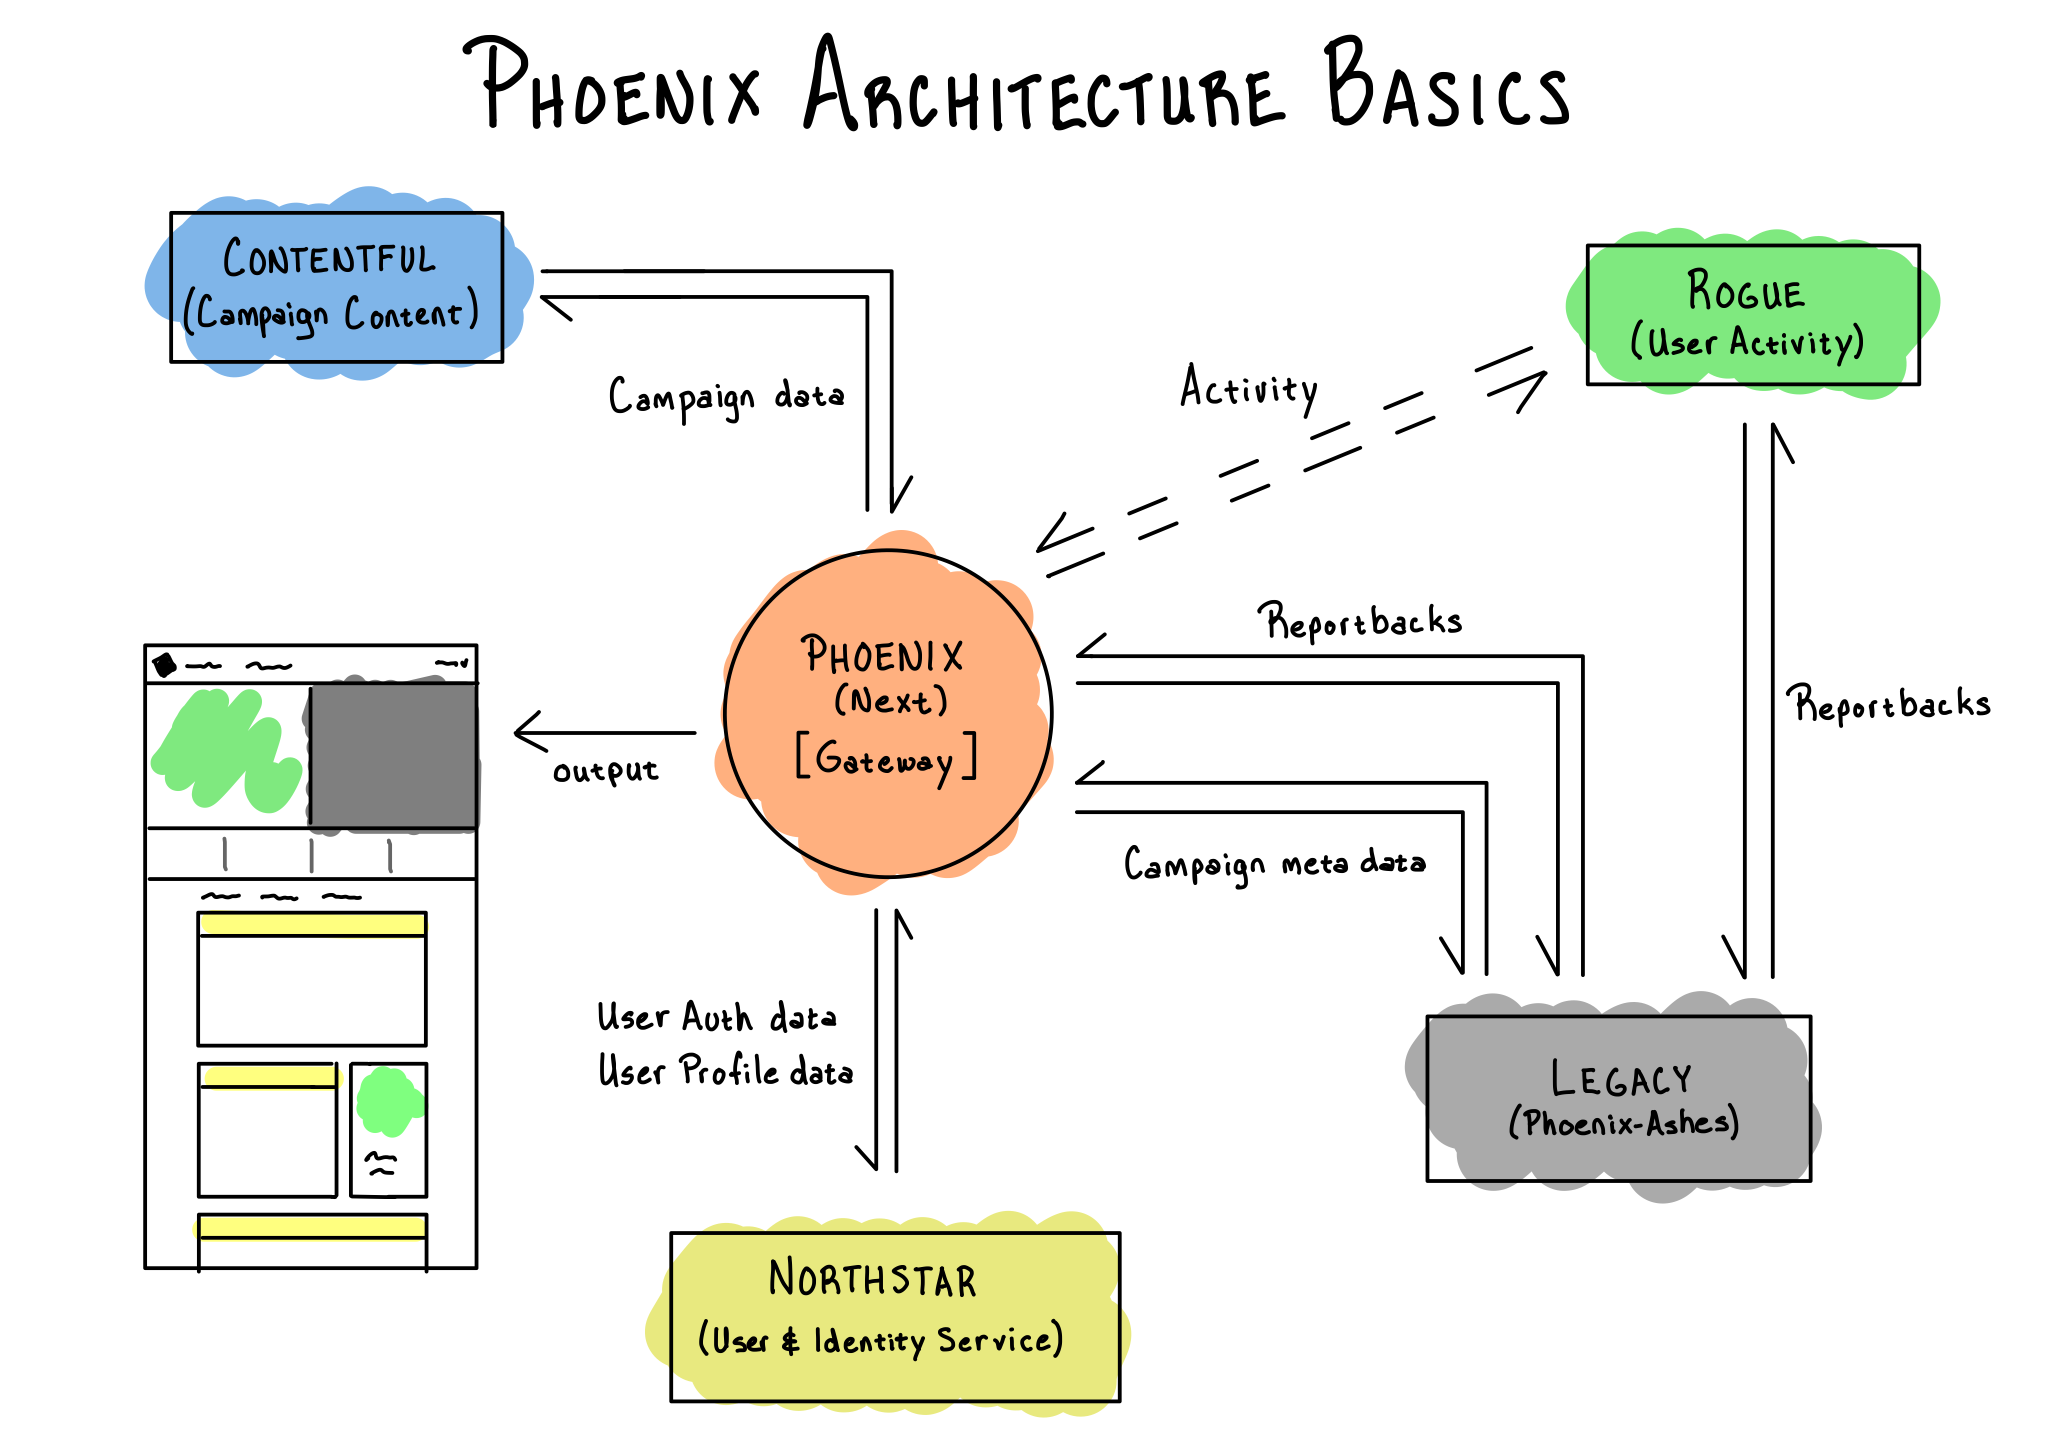
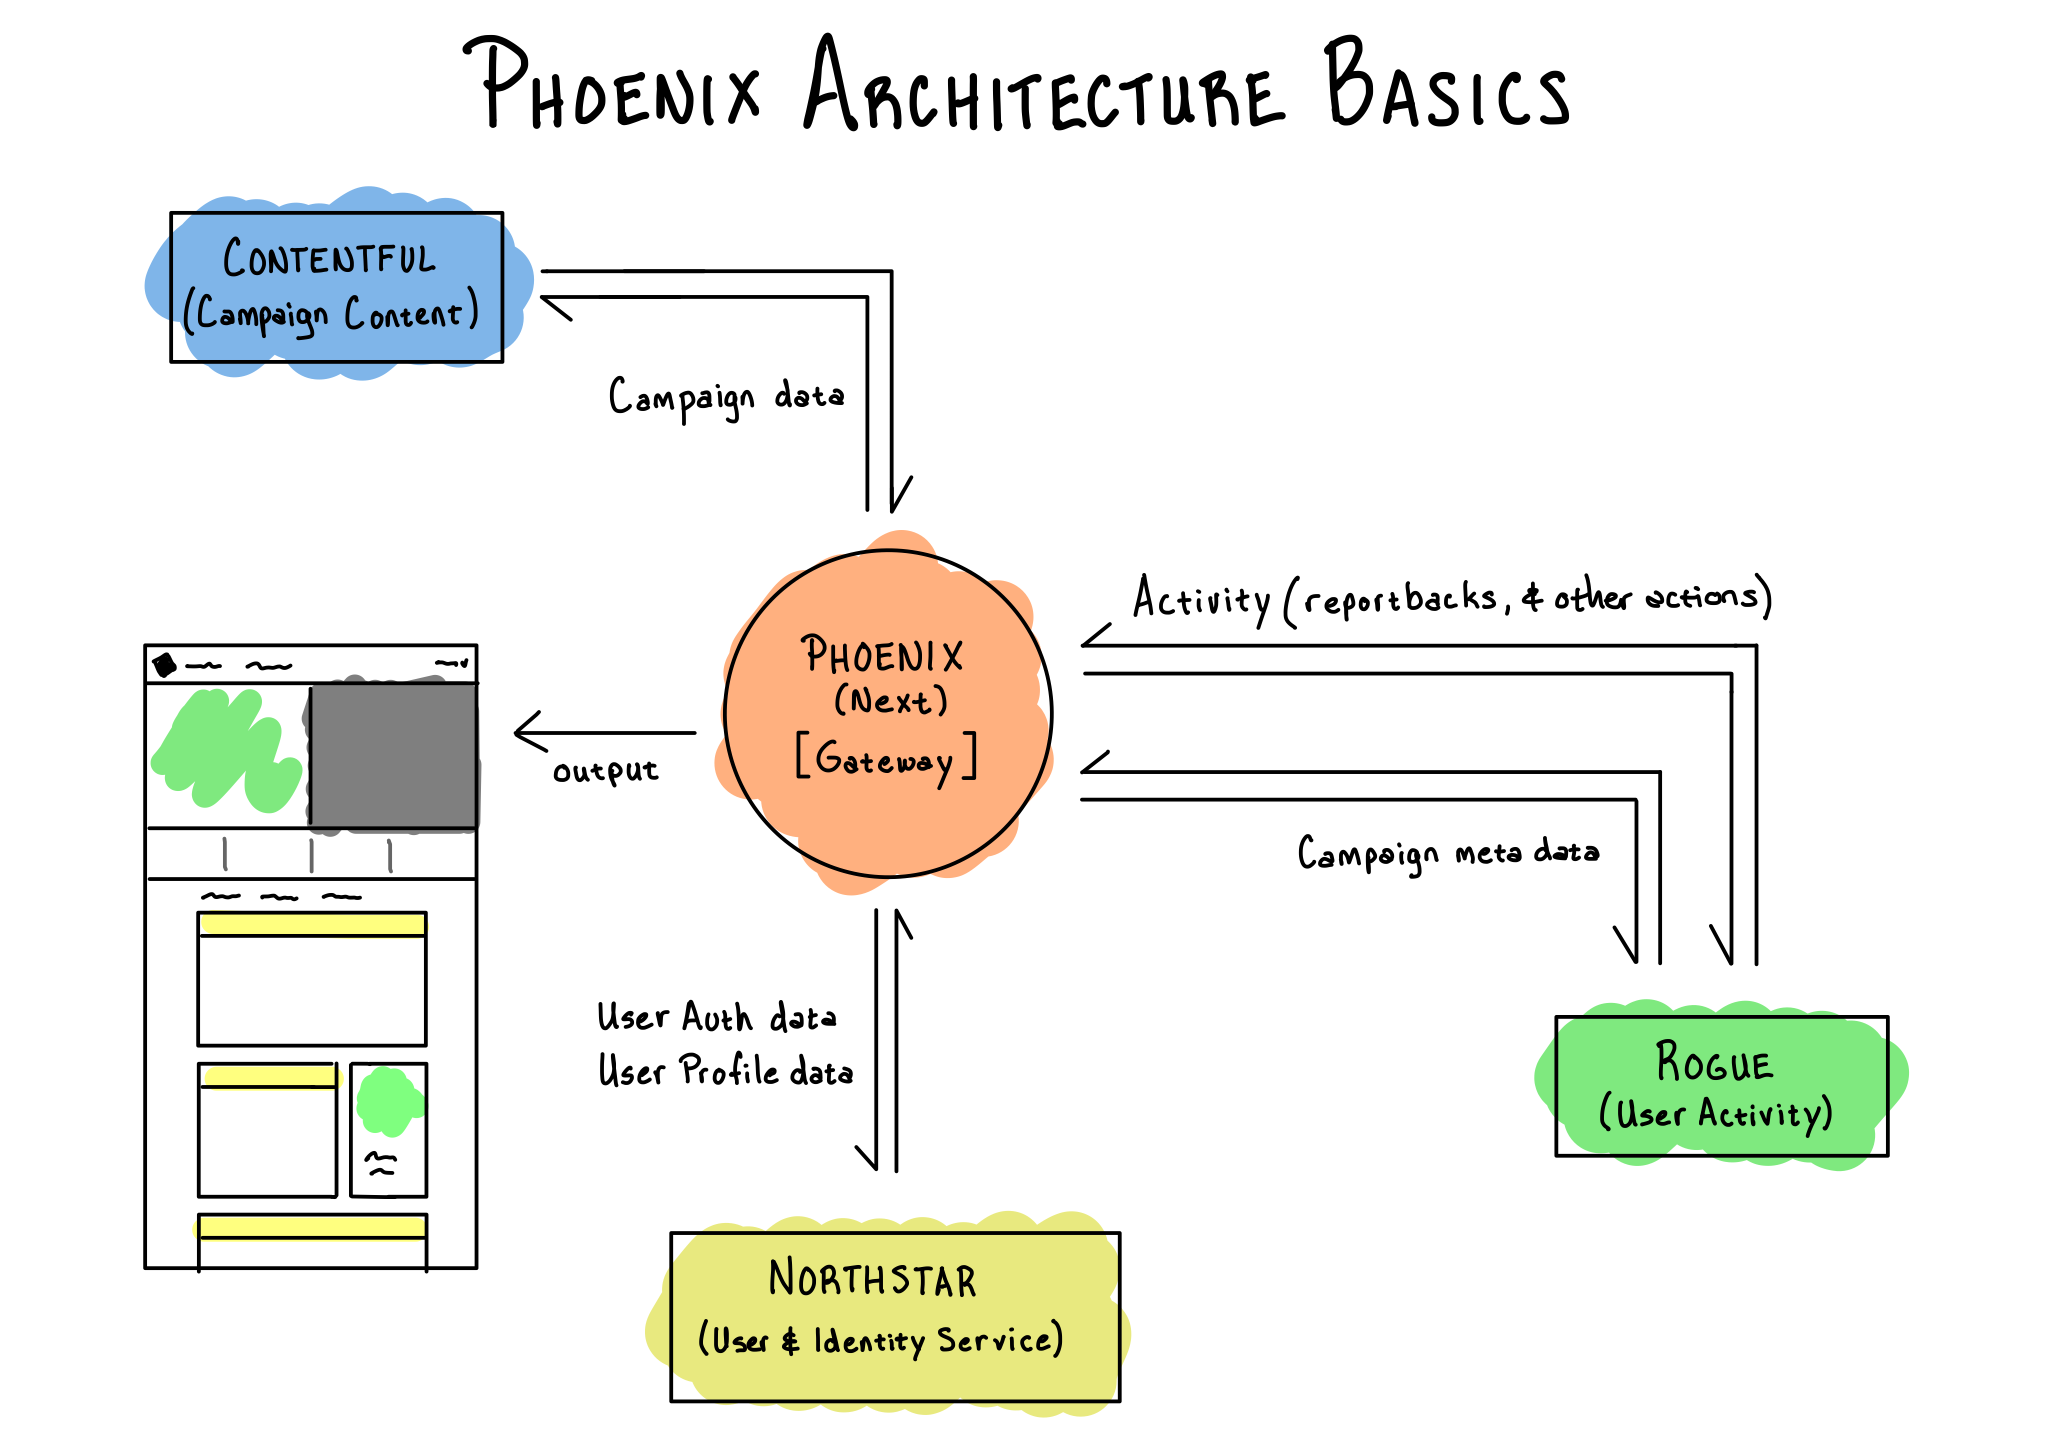
Documentation updates (#1220)
* Updating Development -> Installation docs.

* Removing the term '(next)' from the docs.

* Updaing Development - Developer Onboarding documentation

* Updating Architecture diagram to remove Ashes.

* Updates based on recommendations.

* Updating Heroku file.

* Fixing typo.

diff --git a/docs/development/developer-onboarding.md b/docs/development/developer-onboarding.md
@@ -1,22 +1,22 @@
 # Developer Onboarding
 
-## Install and Set Up Phoenix \(next\)
+## Install and Set Up Phoenix
 
-You can follow the [instructions](installation.md) to install and set up Phoenix \(next\) in your local development environment.
+You can follow the [installation instructions](installation.md) to install and set up Phoenix in your local development environment.
 
-However, before running `php artisan phoenix:setup`, you are going to need a few permissions so that you can set the correct application keys and secrets for proper access.
+However, before running `php artisan phoenix:setup`, you are going to need a few permissions so that you can set the correct application keys and secret keys for proper access.
 
 ### Northstar
 
-For the most part, you can use the staging Northstar URL for your development environment: `https://northstar-thor.dosomething.org`
+For your development environment you should use the Dev Northstar URL: `https://identity-dev.dosomething.org`
 
-To gain access to an ID and SECRET, you will need to have the proper permissions set on your DoSomething account. Let a developer on the team know if you are unable to access [Aurora \(staging\)](https://aurora-thor.dosomething.org/clients).
+To gain access to a _Client ID_ and _Client Secret_, you will need to have the proper permissions set on your DoSomething account. Let a developer on the team know if you are unable to access [Aurora \(dev\)](https://admin-dev.dosomething.org/clients/dev-oauth) to obtain the two values.
 
 ### Contentful
 
-Be sure to setup your [Contentful account](https://www.contentful.com/sign-up/) and request access to the project _Phoenix_ project space, so that you can set the proper _Contentful Space ID_ and _Contentful API Key_ in your setup.
+Be sure to setup your [Contentful account](https://www.contentful.com/sign-up/) and request access to the _Phoenix_ project space, so that you can set the proper _Contentful Space ID_ and _Contentful API Key_ in your setup.
 
-Once you gain access to Contentful and the _Phoenix_ space, you can find the values you need in the **Space settings** tab and click on **API Keys** in Contentful. Then select the **Phoenix Next - local development** token.
+Once you gain access to Contentful and the _Phoenix_ space, you can find the values you need in the **Settings** tab and click on **Space Settings: API keys** in Contentful. Then click the **Phoenix [Development]** entry to obtain the _Space ID_ and _Content Preview API_ key access token.
 
 ### .ENV \(noun: /Dot EE EN VEE/\)
 
@@ -26,7 +26,7 @@ If running the Phoenix setup from scratch, a copy of this `.env.example` file wi
 
 ### Preview API
 
-For you local development environment, it may be helpful to use the **Content Preview API - access token** instead of the **Content Delivery API - access token**, so you can access unpublished, or "draft mode" work from Contentful. If you choose to do so, be sure to set the `CONTENTFUL_USE_PREVIEW_API` to `true` in your `.env` file.
+For you local development environment, it may be helpful to use the **Content Preview API - access token** instead of the **Content Delivery API - access token**, so you can access unpublished, or "draft mode" work from Contentful. If you choose to do so, be sure to set the `CONTENTFUL_USE_PREVIEW_API` to `true` in your `.env` file, so that the Contentful configuration knows to access preview content.
 
 ### Contentful Caching
 
@@ -36,18 +36,19 @@ By default, the application is set up to cache Campaigns records fetched from Co
 
 There are a couple of other applications and sites that you will want access to for development:
 
-* The [Dosomething Team](https://dashboard.heroku.com/teams/dosomething/overview) on [Heroku](https://www.heroku.com/) \(To access Preview Apps, and more\).
-* The [Dosomething Organization](https://app.wercker.com/dosomething) on [Wercker](https://app.wercker.com) \(To access and re-trigger auto builds for _Pull Requests_\).
+- The [Dosomething Team](https://dashboard.heroku.com/teams/dosomething/overview) on [Heroku](https://www.heroku.com/) \(To access Preview Apps, Phoenix deployments and more\).
+- The [Dosomething Organization](https://app.wercker.com/dosomething) on [Wercker](https://app.wercker.com) \(To access and re-trigger auto builds for _Pull Requests_\).
 
 ## Tips and Tidbits 🍩
 
-### Preview Environment
+### Dev & QA Environments
 
-Once a _Pull Request_ is merged, a deploy to our staging environment is automatically triggered.
+Once a _Pull Request_ is merged, a deploy to our _Development_ and _QA (staging)_ environment is automatically triggered.
 
-The staging environment can be accessed at [https://phoenix-preview.dosomething.org](https://phoenix-preview.dosomething.org).
+The Development environment can be accessed at [https://www-dev.dosomething.org](https://www-dev.dosomething.org).
+
+The QA environment can be accessed at [https://qa.dosomething.org](https://qa.dosomething.org).
 
 ### Review Apps
 
 When a Pull Request is submitted, a temporary deploy is made from the feature branch. Read more about this in the [Heroku documentation for Review Apps](https://github.com/DoSomething/phoenix-next/wiki/Review-apps).
-

diff --git a/docs/development/deployments/heroku.md b/docs/development/deployments/heroku.md
@@ -1,22 +1,21 @@
 # Heroku
 
-Heroku is a platform that lets developers focus on building applications instead of orchestrating infastructure. We currently use Heroku for Review Applications, temporary apps that deploy for every pull request, and we're moving towards hosting Phoenix \(next\) entirely on Heroku.
+Heroku is a platform that lets developers focus on building applications instead of orchestrating infastructure. We currently use Heroku for Review Applications, temporary apps that deploy for every pull request, and we're moving towards hosting Phoenix entirely on Heroku.
 
 ## Heroku Resources
 
 Pages useful for understanding and debugging Heroku.
 
-* [12 Factor](https://12factor.net/)
-* [Heroku Dev Center](https://devcenter.heroku.com/)
-* [Heroku Laravel Buildpack](https://devcenter.heroku.com/articles/getting-started-with-laravel)
-* [Heroku Javascript Buildpack](https://devcenter.heroku.com/articles/deploying-nodejs)
-* [Heroku Review Apps Documentation](https://devcenter.heroku.com/articles/deploying-nodejs)
+- [12 Factor](https://12factor.net/)
+- [Heroku Dev Center](https://devcenter.heroku.com/)
+- [Heroku Laravel Buildpack](https://devcenter.heroku.com/articles/getting-started-with-laravel)
+- [Heroku Javascript Buildpack](https://devcenter.heroku.com/articles/deploying-nodejs)
+- [Heroku Review Apps Documentation](https://devcenter.heroku.com/articles/deploying-nodejs)
 
 ## Laravel + Heroku notes
 
-Review apps are spun up everytime a pull request is made by using the [app.json](https://github.com/DoSomething/phoenix-next/blob/dev/app.json) as an instruction set for how to configure the dyno. Any secret environment variables that it pulls in come from the staging app within the Phoenix \(next\) Heroku pipeline.
+Review apps are spun up everytime a pull request is made by using the [app.json](https://github.com/DoSomething/phoenix-next/blob/dev/app.json) as an instruction set for how to configure the dyno. Any secret environment variables that it pulls in come from the QA (staging) app within the Phoenix Heroku pipeline.
 
-Phoenix \(next\) Heroku apps also execute a [post-deploy script](https://github.com/DoSomething/phoenix-next/blob/dev/bootstrap/setup.sh) that we created, which handles running tasks such database migrations.
+Heroku apps contain a _Procfile_ that declares what command should be executed to start an app. Phoenix's Procfile declares that a single `web` process type should be run; this process will be attached to the HTTP rounting stack of Heroku and receive web traffic when deployed. The command that is executed to start the app will run a composer command that helps with Phoenix setup, start up the Nginx server and serve the app from the `public/` directory. It will also run the initial database migrations for the app.
 
-In order to make the MySql connection work in Heroku, we had to make some changes to how Laravel connects to MySql. [Here](https://github.com/DoSomething/phoenix-next/blob/dev/config/database.php#L3) is the code for how that works. We also had to change the [Trusted Proxy](https://github.com/DoSomething/phoenix-next/blob/dev/config/trustedproxy.php) in order for the app to work smoothly with Heroku's load balancer.
-
+Something to note is that we had to change the [Trusted Proxy](https://github.com/DoSomething/phoenix-next/blob/dev/config/trustedproxy.php) settings in order for the app to work smoothly with Heroku's load balancer.

diff --git a/docs/development/installation.md b/docs/development/installation.md
@@ -1,8 +1,14 @@
 # Installation
 
-Fork and clone this repository to your computer, and then [add to your local Homestead](https://github.com/DoSomething/communal-docs/tree/master/Homestead) installation. Homestead provides a pre-packaged development environment to help get you up and running quickly!
+Fork and clone the [Phoenix repository](https://github.com/DoSomething/phoenix-next) to your computer, and then [add it to your local Homestead](https://github.com/DoSomething/communal-docs/tree/master/Homestead) installation. Homestead provides a pre-packaged development environment to help get you up and running quickly!
 
-We use [Contentful](https://www.contentful.com/) as our content management platform. Please setup an account and request access to the _space_ used for this project.
+We use [Contentful](https://www.contentful.com/) as our content management platform.
+
+{% hint style="warning" %}
+Please request access to Contentful and setup an account to be able to access the _space_ used for this project.
+{% endhint %}
+
+Once you have access to Contentful, `ssh` into the Homestead Vagrant box, `cd` into the Phoenix repository location and run:
 
 ```bash
 # Install dependencies:
@@ -19,7 +25,7 @@ $ npm start
 
 ### PHP
 
-You may run PHP tests locally using [PHPUnit](https://github.com/sebastianbergmann/phpunit), by running:
+To run PHP tests locally, `ssh` into the Homestead Vagrant box, `cd` into the Phoenix repository location and use [PHPUnit](https://github.com/sebastianbergmann/phpunit), by running:
 
 ```bash
 $ vendor/bin/phpunit
@@ -39,10 +45,9 @@ $ npm test
 
 We use [Prettier](https://prettier.io/) to format our code & [ESLint](http://eslint.org/) to catch common mistakes. They run in the following scenarios:
 
-* When using the `npm start` command, your files will be "watched" for changes, and when a change is detected, the JS code will be linted and only compiled if it passes.
-* Code will be automatically formatted when committing changes. You can also install an [editor plugin](https://prettier.io/docs/en/editors.html) to reformat code as you write it, or manually format the project with `npm run format`.
-* You can manually lint code by running `npm run lint -s`. The `-s` option lets you suppress the verbose NPM warnings that follows when there are linting errors.
-* Code linting also runs via [Wercker](http://www.wercker.com/), our continuous integration service, when a new pull request is made for the repository.
+- When using the `npm start` command, your files will be "watched" for changes, and when a change is detected, the JS code will be linted and only compiled if it passes.
+- Code will be automatically formatted when committing changes. You can also install an [editor plugin](https://prettier.io/docs/en/editors.html) to reformat code as you write it, or manually format the project with `npm run format`.
+- You can manually lint code by running `npm run lint -s`. The `-s` option lets you suppress the verbose NPM warnings that follows when there are linting errors.
+- Code linting also runs via [Wercker](http://www.wercker.com/), our continuous integration service, when a new pull request is made for the repository.
 
 We use [StyleCI](https://styleci.io/repos/75642790) service to lint our PHP code when a new pull request is made for the respository.
-

diff --git a/docs/content-publishing/environment-details-and-behaviors.md b/docs/content-publishing/environment-details-and-behaviors.md
@@ -12,5 +12,5 @@ The only things that will show up on production are those that have been _Publis
 
 On Preview \(aka: Thor\), anything that is in _Draft_ mode will show on the page. This allows you to queue up content changes without actually changing a live campaign, as well as identify if new content is an issue before publishing to Production.
 
-Phoenix \(next\) has an administration console that allows you to see all of the views a user would see through the campaign. Note that if you are clicking out to a modal, the behavior here will be incorrect as an administrator \(it re-triggers the "mock signup/unsignup button"\). This is not indicative of how it will work for a user.
+Phoenix has an administration console that allows you to see all of the views a user would see through the campaign. Note that if you are clicking out to a modal, the behavior here will be incorrect as an administrator \(it re-triggers the "mock signup/unsignup button"\). This is not indicative of how it will work for a user.
 

diff --git a/docs/development/features/README.md b/docs/development/features/README.md
@@ -1,14 +1,13 @@
 # Features
 
-We've got loads of cool features we use for development within Phoenix \(next\). Here's a list of some nifty things you mind find useful for you Phoenix Development Arsenal™.
+We've got loads of cool features we use for development within Phoenix. Here's a list of some nifty things you mind find useful for you Phoenix Development Arsenal™.
 
 ## Backend Components & Features
 
-* [Routing](routing.md)
-* [Sixpack A/B Testing](sixpack-a-b-testing.md)
+- [Routing](routing.md)
+- [Sixpack A/B Testing](sixpack-a-b-testing.md)
 
 ## Frontend Components
 
-* [Traffic Distribution](traffic-distribution.md)
-* [Modal Launcher](modal-launcher.md)
-
+- [Traffic Distribution](traffic-distribution.md)
+- [Modal Launcher](modal-launcher.md)

diff --git a/docs/content-publishing/initial-campaign-publication/README.md b/docs/content-publishing/initial-campaign-publication/README.md
@@ -2,6 +2,5 @@
 
 Currently, while we still support the legacy DoSomething.org platform, to publish a campaign you need to follow instructions on both the old **Ashes** platform and the new **Phoenix** platform.
 
-* [Ashes Publication](ashes-publication.md)
-* [Phoenix \(next\) Publication](next-publication.md)
-
+- [Ashes Publication](ashes-publication.md)
+- [Phoenix \(next\) Publication](next-publication.md)

diff --git a/docs/SUMMARY.md b/docs/SUMMARY.md
@@ -5,8 +5,8 @@
 ## Development
 
 - [Overview](development/overview.md)
-- [Installation](development/installation.md)
 - [Developer Onboarding](development/developer-onboarding.md)
+- [Installation](development/installation.md)
 - [Architecture](development/architecture.md)
 - [Deployments](development/deployments/README.md)
   - [Contentful Migrations](development/deployments/contentful-migrations.md)
